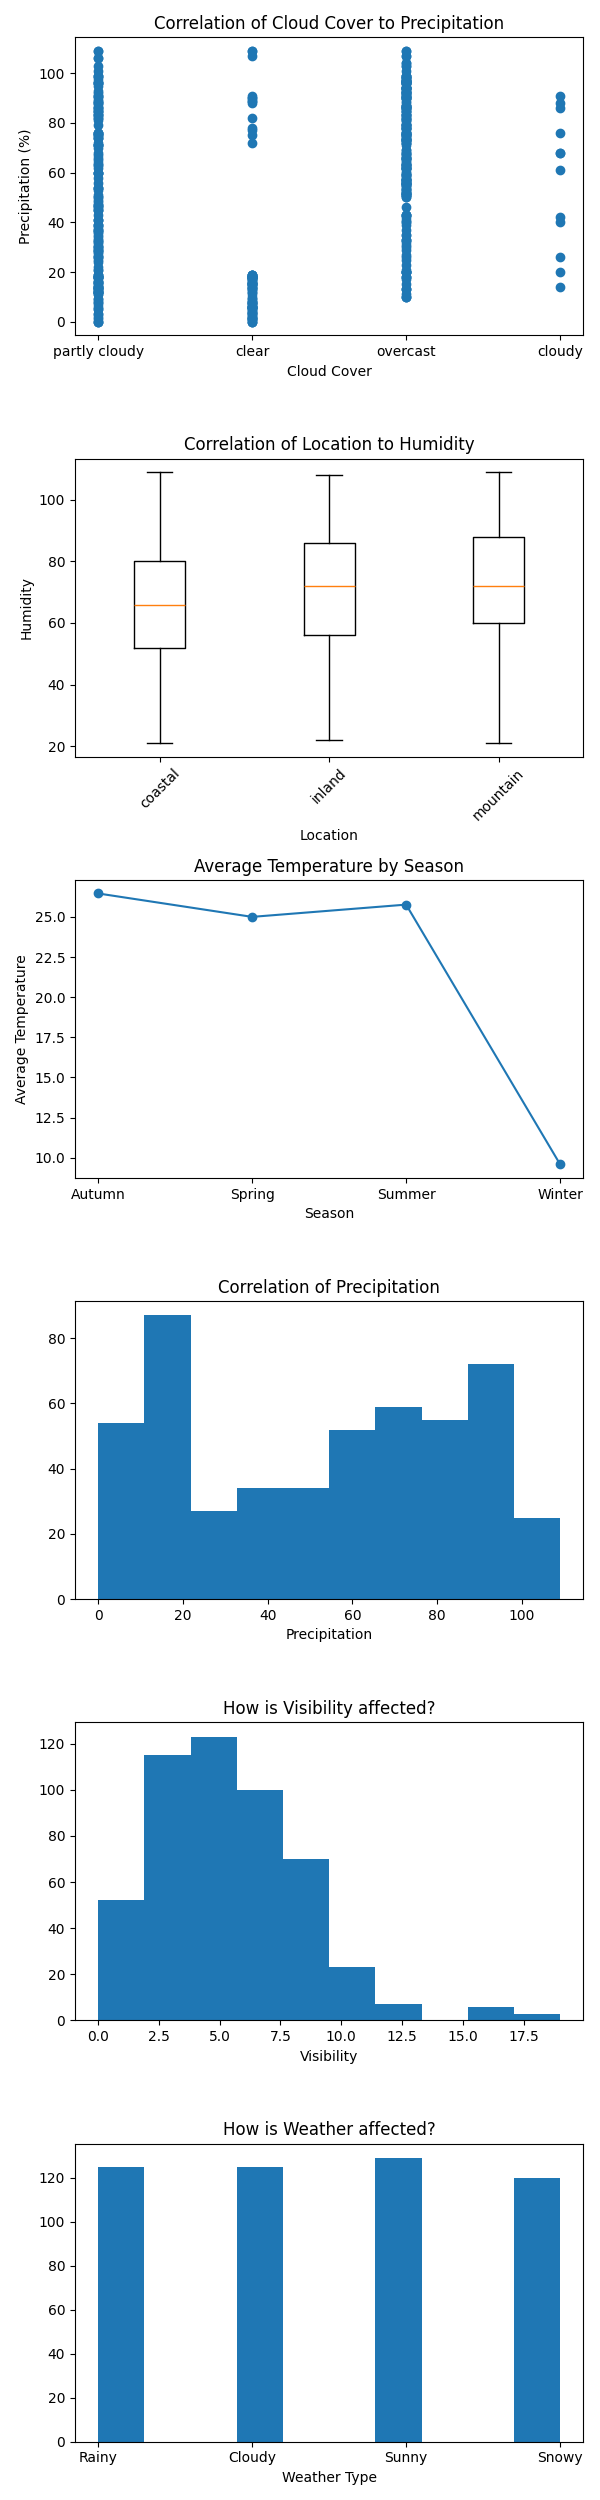
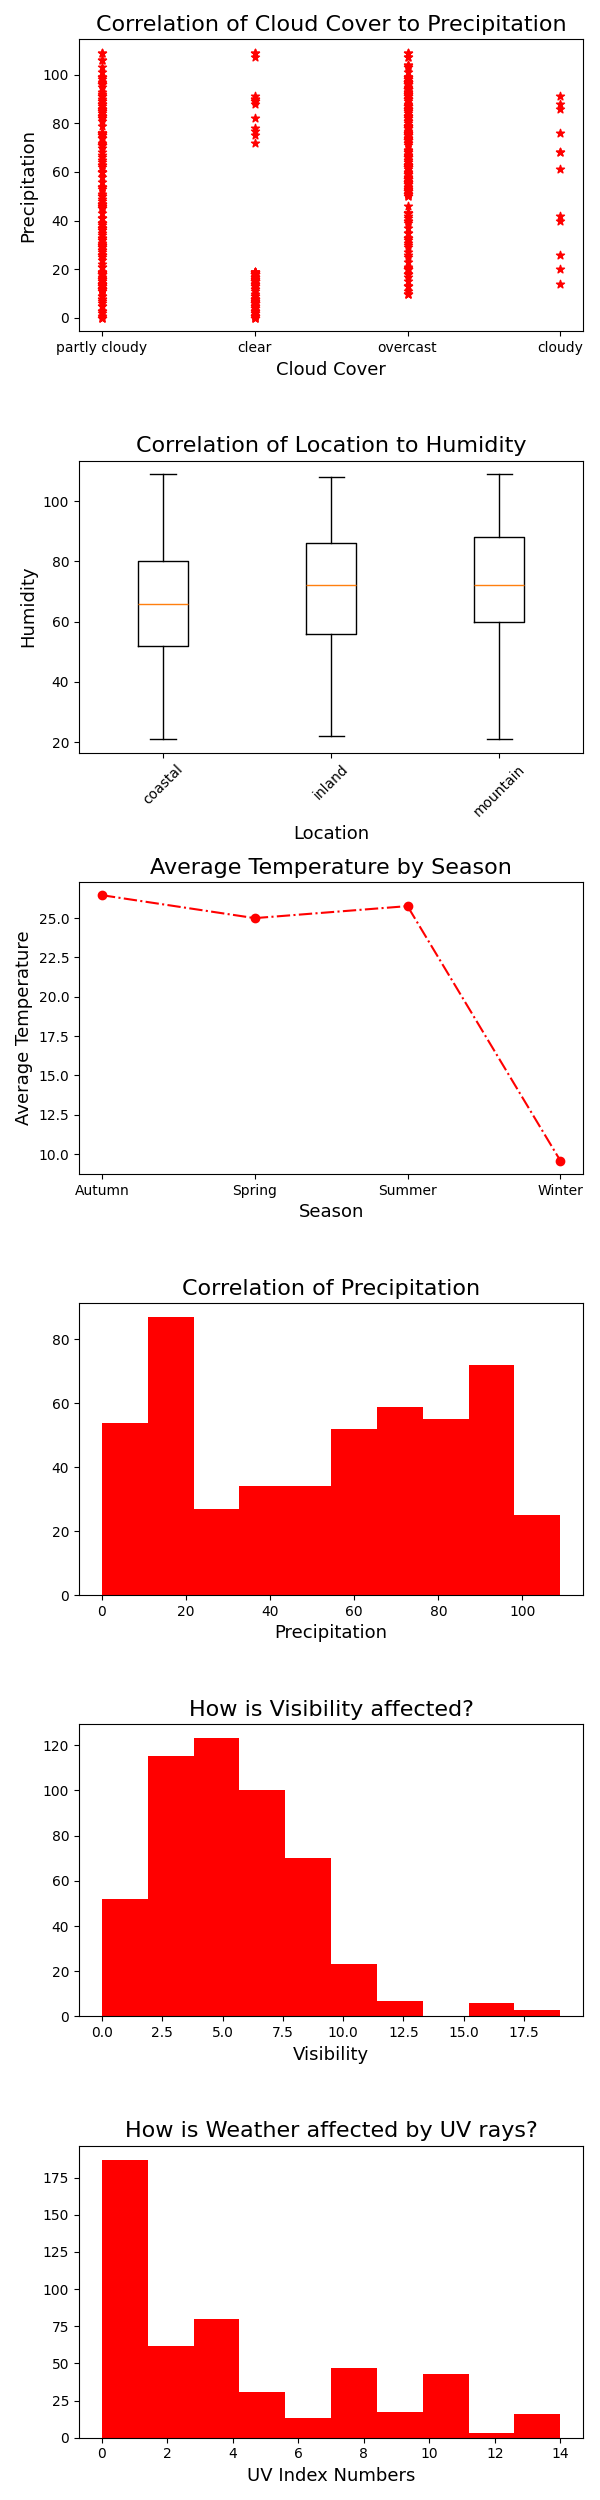
save

diff --git a/weather.py b/weather.py
@@ -9,10 +9,10 @@ print(data.dtypes)
 fig, ax = plot.subplots(6, 1, figsize=(6, 25))
 
 # First Chart: Scatter plot between Cloud Cover and Precipitation
-ax[0].scatter(data["Cloud Cover"], data["Precipitation (%)"])
-ax[0].set_xlabel("Cloud Cover")
-ax[0].set_ylabel("Precipitation (%)")
-ax[0].set_title("Correlation of Cloud Cover to Precipitation")
+ax[0].scatter(data["Cloud Cover"], data["Precipitation (%)"], marker="*", color="r")
+ax[0].set_xlabel("Cloud Cover", size="13")
+ax[0].set_ylabel("Precipitation", size="13")
+ax[0].set_title("Correlation of Cloud Cover to Precipitation", size="16")
 
 # Second Chart: Boxplot for Humidity by Location
 if data["Location"].dtype == 'object':  # Check if Location is string or categorical
@@ -20,29 +20,29 @@ if data["Location"].dtype == 'object':  # Check if Location is string or categor
 
 ax[1].boxplot([data["Humidity"][data["Location"] == loc] for loc in data["Location"].cat.categories])
 ax[1].set_xticklabels(data["Location"].cat.categories, rotation=45)
-ax[1].set_xlabel("Location")
-ax[1].set_ylabel("Humidity")
-ax[1].set_title("Correlation of Location to Humidity")
+ax[1].set_xlabel("Location", size="13")
+ax[1].set_ylabel("Humidity", size="13")
+ax[1].set_title("Correlation of Location to Humidity", size="16")
 
 # Third Chart
-ax[2].plot(data.groupby("Season")["Temperature"].mean(), marker='o')
-ax[2].set_xlabel("Season")
-ax[2].set_ylabel("Average Temperature")
-ax[2].set_title("Average Temperature by Season")
+ax[2].plot(data.groupby("Season")["Temperature"].mean(), marker='o', linestyle="dashdot", color="r")
+ax[2].set_xlabel("Season", size="13")
+ax[2].set_ylabel("Average Temperature", size="13")
+ax[2].set_title("Average Temperature by Season", size="16")
 
 # Fourth Chart
-ax[3].hist(data["Precipitation (%)"])
-ax[3].set_xlabel("Precipitation")
-ax[3].set_title("Correlation of Precipitation")
+ax[3].hist(data["Precipitation (%)"], color="r")
+ax[3].set_xlabel("Precipitation", size="13")
+ax[3].set_title("Correlation of Precipitation", size="16")
 
 #Fifth Chart
-ax[4].hist(data["Visibility (km)"])
-ax[4].set_xlabel("Visibility")
-ax[4].set_title("How is Visibility affected?")
+ax[4].hist(data["Visibility (km)"], color="r")
+ax[4].set_xlabel("Visibility", size="13")
+ax[4].set_title("How is Visibility affected?", size="16")
 
-ax[5].hist(data["Weather Type"])
-ax[5].set_xlabel("Weather Type")
-ax[5].set_title("How is Weather affected?")
+ax[5].hist(data["UV Index"], color="r")
+ax[5].set_xlabel("UV Index Numbers", size="13")
+ax[5].set_title("How is Weather affected by UV rays?", size="16")
 
 print(data)
 
